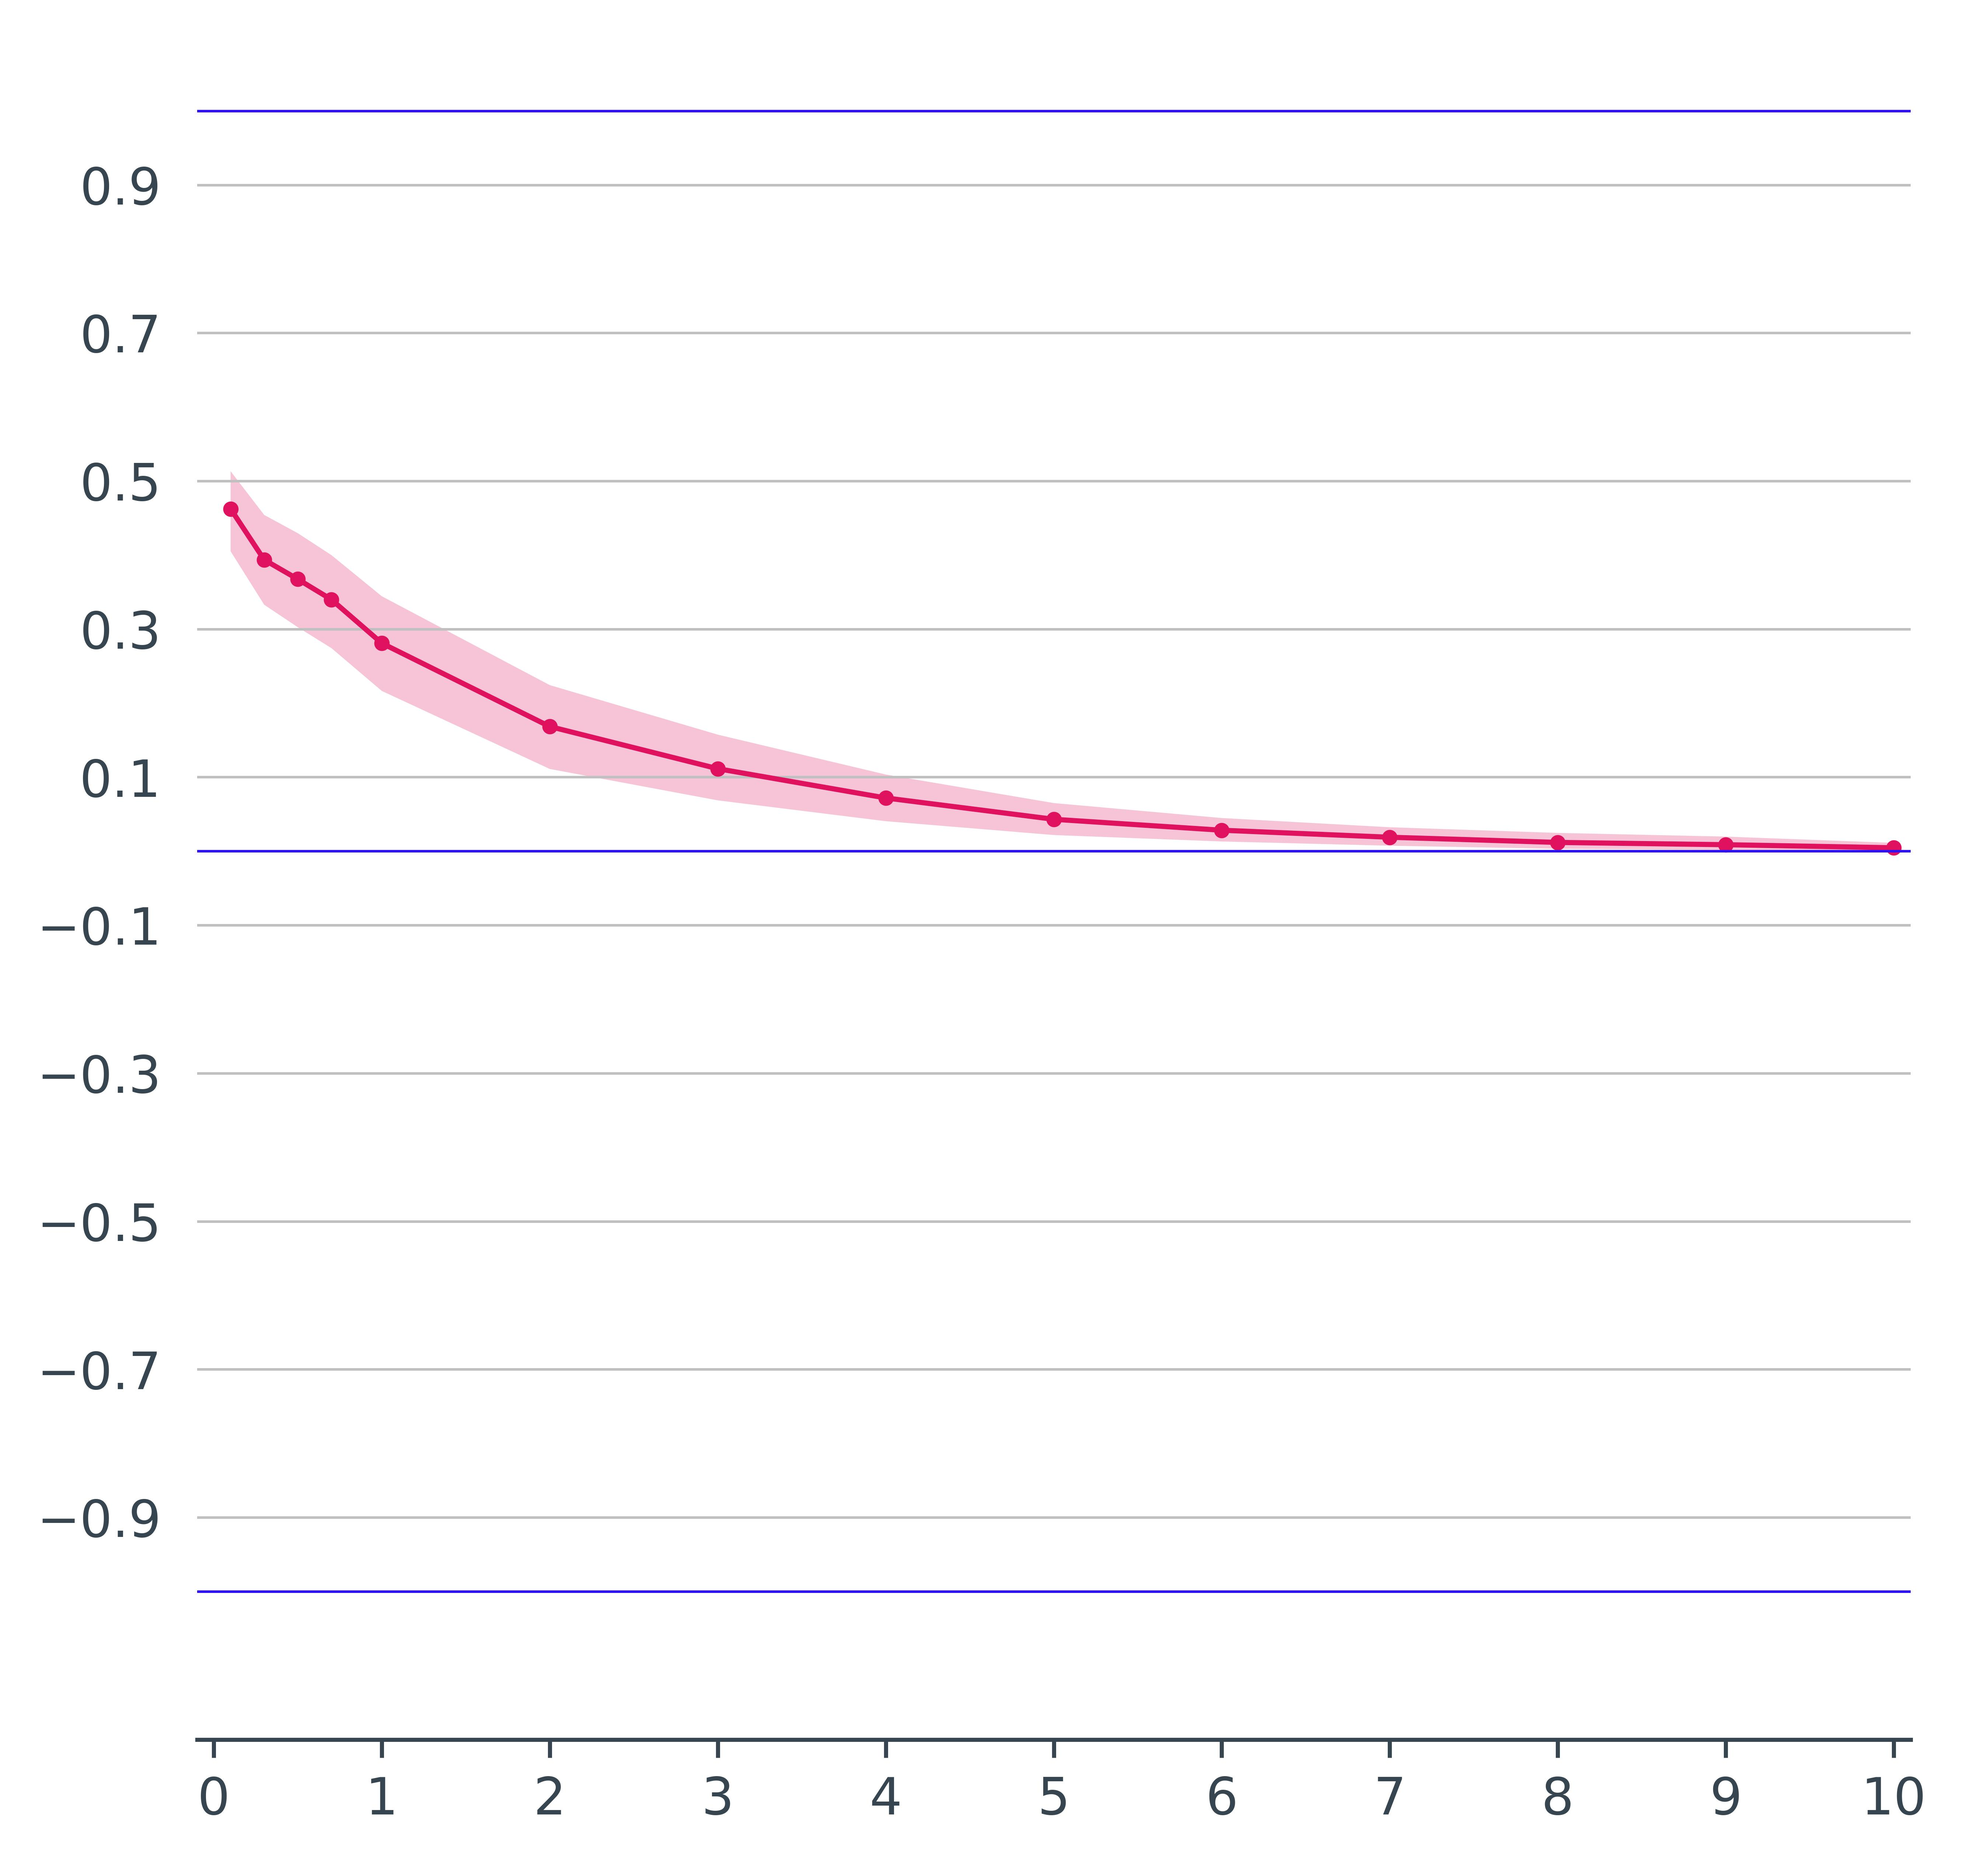
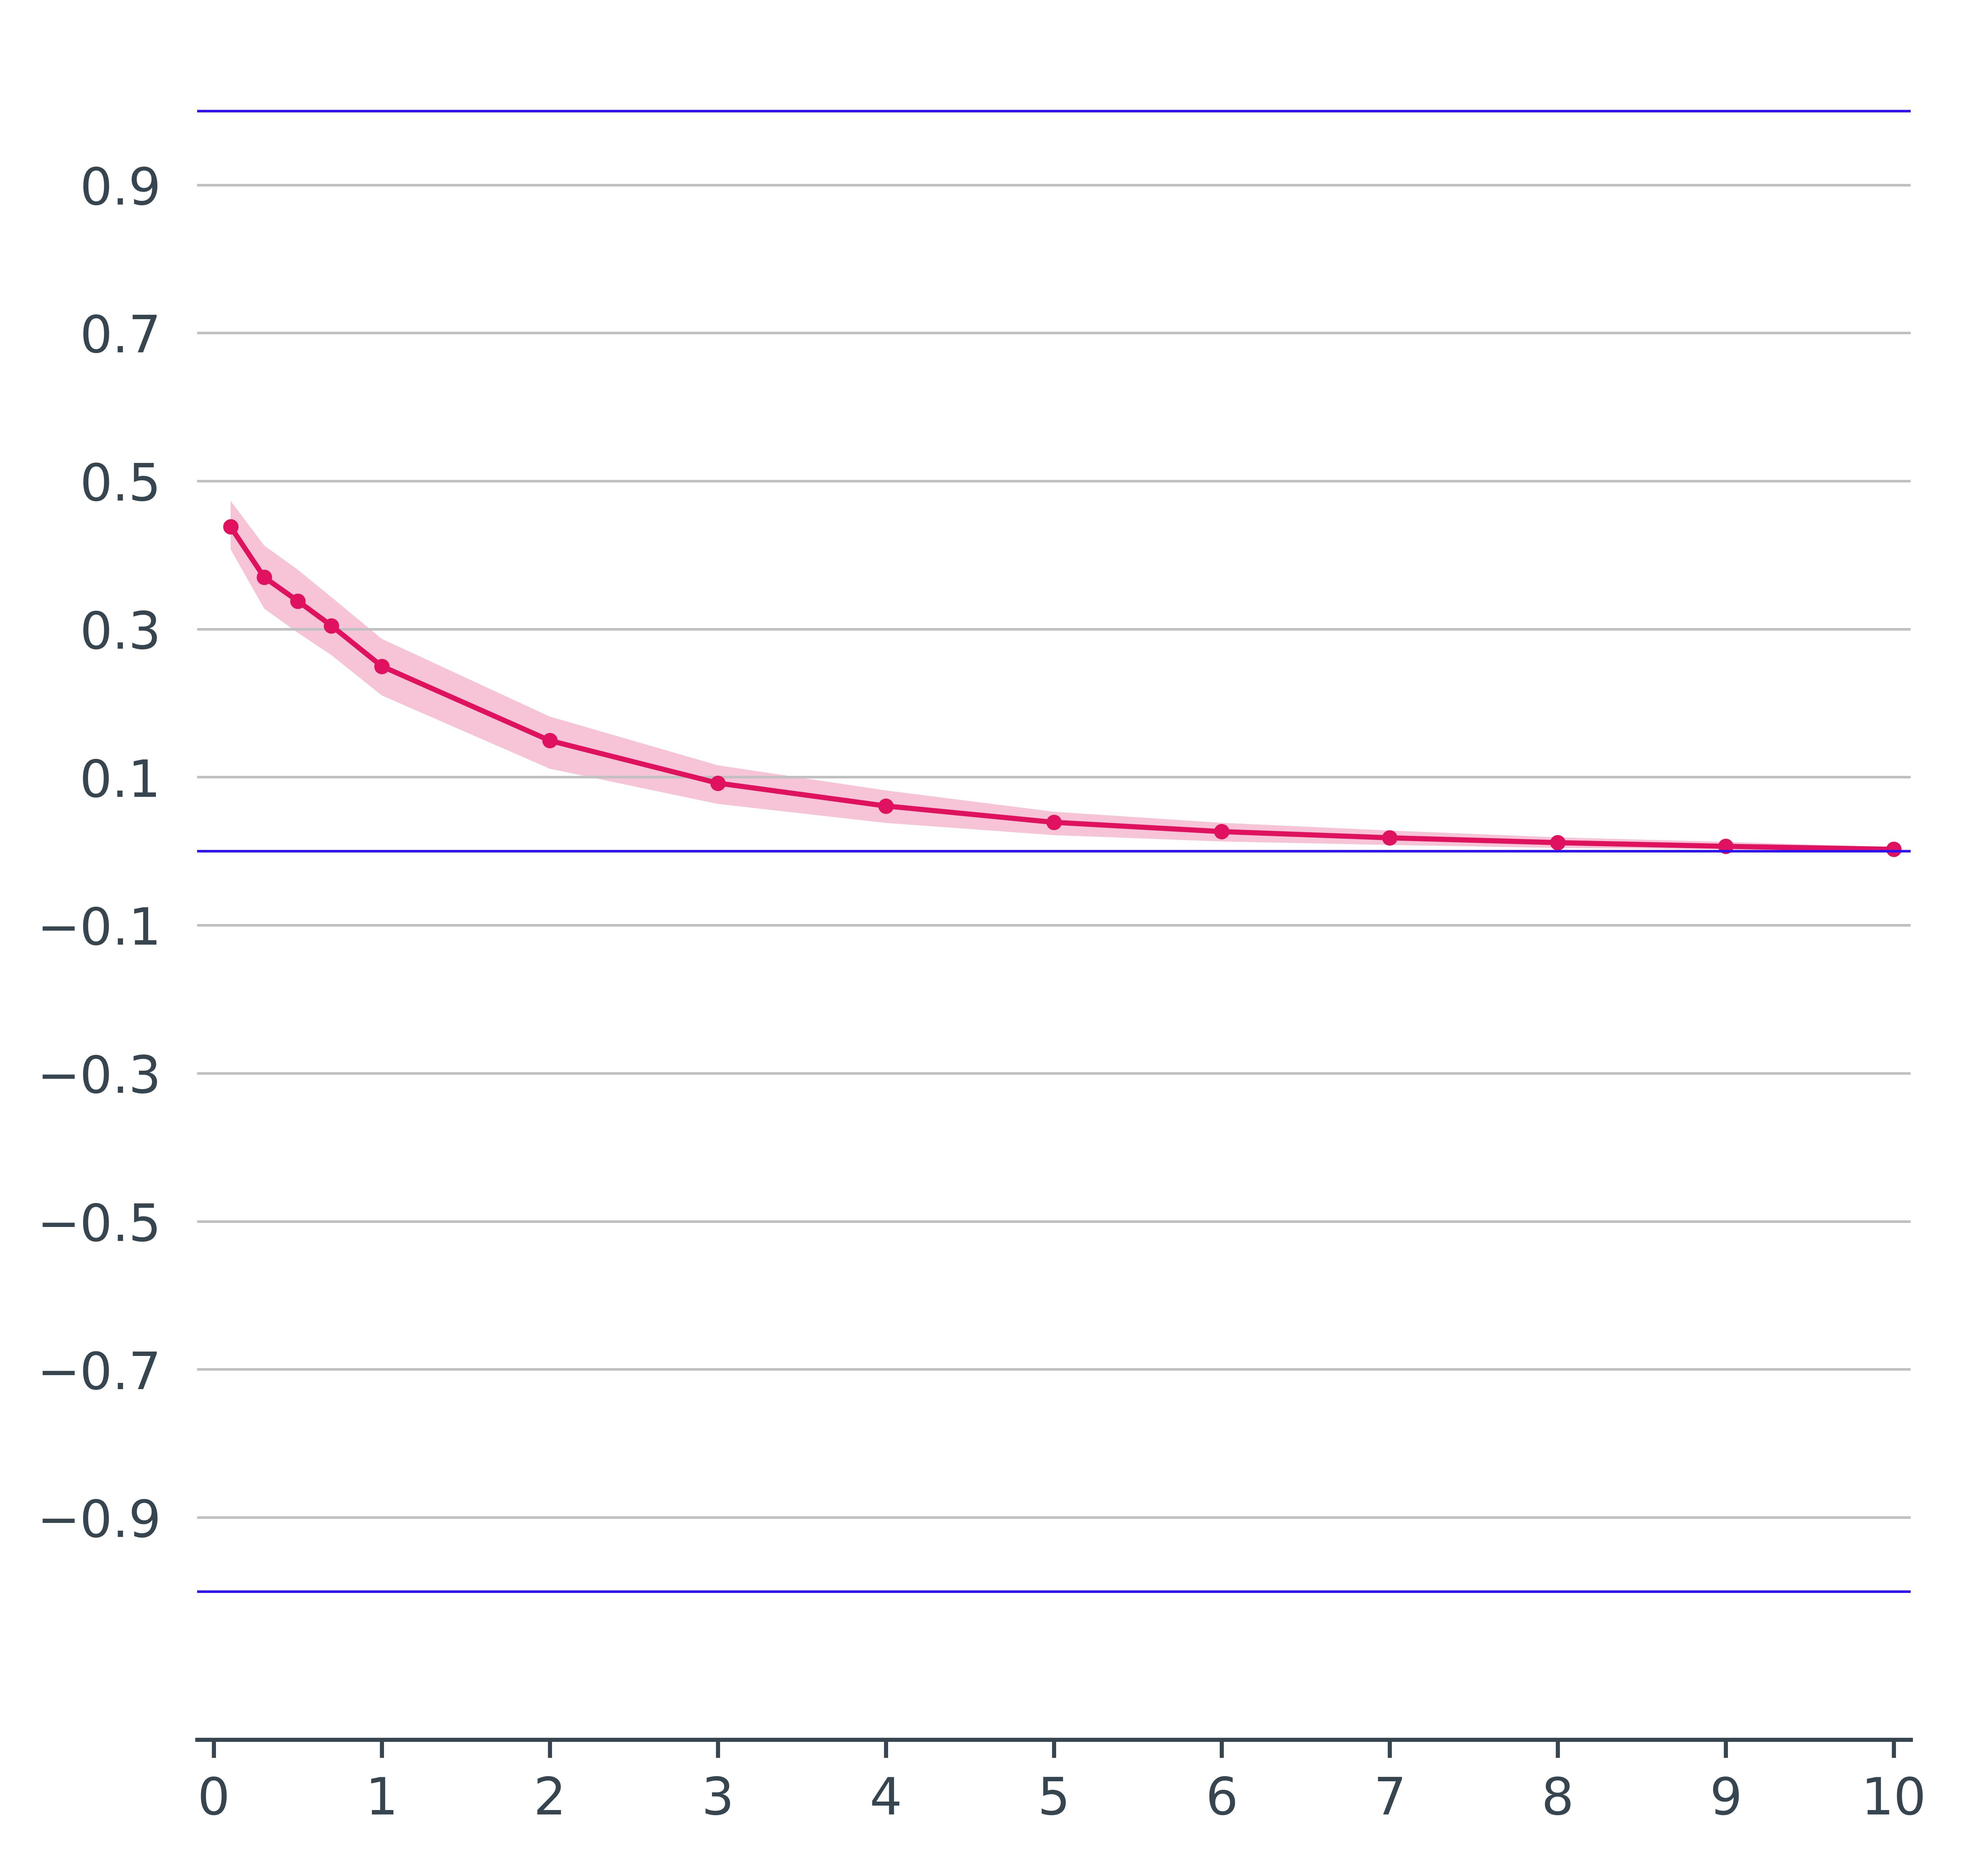
Added new verification scores.

Changed region(s): [[0.0935, 0.2486, 0.9349, 0.4662]]

diff --git a/Scripts/Processed/36_Plot_Verif_Scores.py b/Scripts/Processed/36_Plot_Verif_Scores.py
@@ -31,7 +31,7 @@ TheDateTime_Start_S = datetime(2021, 1, 1, 0)
 TheDateTime_Start_F = datetime(2023, 12, 31, 12)
 Acc = 12
 Disc_Acc = 12
-Num_BS = 1000
+Num_BS = 100
 CL = 99
 Thr_list = [0.1, 0.3, 0.5, 0.7, 1, 2, 3, 4, 5, 6, 7, 8, 9, 10]
 Git_Repo = "/ec/vol/ecpoint_dev/mofp/Papers_2_Write/Use_FlashFloodsRep_4Verif_USA"
@@ -150,13 +150,26 @@ print(cn_bs / Tot_NumGB_Verif_Per * 100)
 # Computing the verification scores
 print()
 print("Computing the verification scores")
-total_bs = h_bs + m_bs + fa_bs + cn_bs
-h_chance_bs = (h_bs + fa_bs) * (h_bs + m_bs) / total_bs
-hr_bs = h_bs / (h_bs + m_bs) 
-far_bs = fa_bs / (fa_bs + cn_bs)
-fb_bs =  (h_bs + fa_bs) / (h_bs + m_bs)
-pss_bs = (h_bs / (h_bs + m_bs)) - (fa_bs / (fa_bs + cn_bs))
+
+fb_bs =  (h_bs + fa_bs) / (h_bs + m_bs) # frequency bias
+
+csi_bs = h_bs / (h_bs + m_bs + fa_bs) # critical success index
+
+h_chance_bs = (h_bs + m_bs) * (h_bs + fa_bs) / (h_bs + m_bs + fa_bs + cn_bs) # equitable threat score
 ets_bs = (h_bs - h_chance_bs) / (h_bs + m_bs + fa_bs - h_chance_bs)
+
+pss_bs = (h_bs / (h_bs + m_bs)) - (fa_bs / (fa_bs + cn_bs)) # Pierce's skill score
+
+correct_rnd = ( ( (h_bs + m_bs) * (h_bs + fa_bs) ) + ( (cn_bs + m_bs) * (cn_bs + fa_bs) ) ) / (h_bs + m_bs + fa_bs + cn_bs) # Heidke skill score
+hss_bs = (h_bs + cn_bs - correct_rnd) / (h_bs + m_bs + fa_bs + cn_bs - correct_rnd)
+
+or_bs = (h_bs * cn_bs) / (m_bs * fa_bs) # odd's ratio
+
+q_bs  = ( (h_bs * cn_bs) - (m_bs * fa_bs) ) / ( (h_bs * cn_bs) + (m_bs * fa_bs) ) # Yules' Q
+
+hr_bs = h_bs / (h_bs + m_bs)  # hit rate for ROC
+far_bs = fa_bs / (fa_bs + cn_bs) # false alarm rate for ROC
+
 
 # Plotting and saving the verification scores
 print()
@@ -260,12 +273,12 @@ plt.savefig(FileOUT, format="jpeg", bbox_inches="tight", dpi=1000)
 plt.close()
 
 
-#################
-# Peirce's skill score #
-#################
+####################
+# Critical Success Index #
+####################
 
-var = pss_bs
-VarName = "pss"
+var = csi_bs
+VarName = "csi"
 
 lower_error = np.percentile(var[:,1:], (100-CL)/2, axis = 1)
 upper_error = np.percentile(var[:,1:], (100 - (100-CL)/2), axis = 1)
@@ -286,11 +299,8 @@ ax.tick_params(axis="y", colors="#36454F")
 plt.xlim([-0.1, np.max(Thr_list) + 0.1])
 ax.set_xticks(np.arange(0, np.max(Thr_list) + 1))
 
-plt.ylim([-1.2,1.1])
-ax.set_yticks(np.arange(-0.9, 1, 0.2))
-plt.plot([-0.1,np.max(Thr_list) + 0.1], [1,1], "-", color="#2F11F5", linewidth=0.5)
+ax.set_ylim(bottom=-1)
 plt.plot([-0.1,np.max(Thr_list) + 0.1], [0,0], "-", color="#2F11F5", linewidth=0.5)
-plt.plot([-0.1,np.max(Thr_list) + 0.1], [-1,-1], "-", color="#2F11F5", linewidth=0.5)
 
 plt.grid(axis="y", color="silver", linewidth=0.5)
 
@@ -330,6 +340,160 @@ ax.set_yticks(np.arange(-0.3, 1.1, 0.2))
 plt.plot([-0.1,np.max(Thr_list) + 0.1], [1,1], "-", color="#2F11F5", linewidth=0.5)
 plt.plot([-0.1,np.max(Thr_list) + 0.1], [0,0], "-", color="#2F11F5", linewidth=0.5)
 plt.plot([-0.1,np.max(Thr_list) + 0.1], [-1/3,-1/3], "-", color="#2F11F5", linewidth=0.5)
+
+plt.grid(axis="y", color="silver", linewidth=0.5)
+
+FileOUT = MainDirOUT + "/" + VarName + ".jpeg"
+plt.savefig(FileOUT, format="jpeg", bbox_inches="tight", dpi=1000)
+plt.close()
+
+
+#################
+# Peirce's skill score #
+#################
+
+var = pss_bs
+VarName = "pss"
+
+lower_error = np.percentile(var[:,1:], (100-CL)/2, axis = 1)
+upper_error = np.percentile(var[:,1:], (100 - (100-CL)/2), axis = 1)
+
+plt.figure(figsize=(6,6))
+plt.plot(Thr_list, var[:,0], "o-", color="#E0115F", linewidth=1, markersize=2)
+plt.fill_between(Thr_list, lower_error, upper_error, color="#E0115F", alpha=0.25, edgecolor="none")
+
+ax = plt.gca()
+ax.spines["top"].set_visible(False)
+ax.spines["bottom"].set_color("#36454F")
+ax.spines["left"].set_visible(False)
+ax.spines["right"].set_visible(False)
+plt.tick_params(left=False, right=False, top=False)
+ax.tick_params(axis="x", colors="#36454F")
+ax.tick_params(axis="y", colors="#36454F")
+
+plt.xlim([-0.1, np.max(Thr_list) + 0.1])
+ax.set_xticks(np.arange(0, np.max(Thr_list) + 1))
+
+plt.ylim([-1.2,1.1])
+ax.set_yticks(np.arange(-0.9, 1, 0.2))
+plt.plot([-0.1,np.max(Thr_list) + 0.1], [1,1], "-", color="#2F11F5", linewidth=0.5)
+plt.plot([-0.1,np.max(Thr_list) + 0.1], [0,0], "-", color="#2F11F5", linewidth=0.5)
+plt.plot([-0.1,np.max(Thr_list) + 0.1], [-1,-1], "-", color="#2F11F5", linewidth=0.5)
+
+plt.grid(axis="y", color="silver", linewidth=0.5)
+
+FileOUT = MainDirOUT + "/" + VarName + ".jpeg"
+plt.savefig(FileOUT, format="jpeg", bbox_inches="tight", dpi=1000)
+plt.close()
+
+
+#################
+# Heidke skill score #
+#################
+
+var = hss_bs
+VarName = "hss"
+
+lower_error = np.percentile(var[:,1:], (100-CL)/2, axis = 1)
+upper_error = np.percentile(var[:,1:], (100 - (100-CL)/2), axis = 1)
+
+plt.figure(figsize=(6,6))
+plt.plot(Thr_list, var[:,0], "o-", color="#E0115F", linewidth=1, markersize=2)
+plt.fill_between(Thr_list, lower_error, upper_error, color="#E0115F", alpha=0.25, edgecolor="none")
+
+ax = plt.gca()
+ax.spines["top"].set_visible(False)
+ax.spines["bottom"].set_color("#36454F")
+ax.spines["left"].set_visible(False)
+ax.spines["right"].set_visible(False)
+plt.tick_params(left=False, right=False, top=False)
+ax.tick_params(axis="x", colors="#36454F")
+ax.tick_params(axis="y", colors="#36454F")
+
+plt.xlim([-0.1, np.max(Thr_list) + 0.1])
+ax.set_xticks(np.arange(0, np.max(Thr_list) + 1))
+
+plt.ylim([-1.2,1.1])
+ax.set_yticks(np.arange(-0.9, 1, 0.2))
+plt.plot([-0.1,np.max(Thr_list) + 0.1], [1,1], "-", color="#2F11F5", linewidth=0.5)
+plt.plot([-0.1,np.max(Thr_list) + 0.1], [0,0], "-", color="#2F11F5", linewidth=0.5)
+plt.plot([-0.1,np.max(Thr_list) + 0.1], [-1,-1], "-", color="#2F11F5", linewidth=0.5)
+
+plt.grid(axis="y", color="silver", linewidth=0.5)
+
+FileOUT = MainDirOUT + "/" + VarName + ".jpeg"
+plt.savefig(FileOUT, format="jpeg", bbox_inches="tight", dpi=1000)
+plt.close()
+
+
+############
+# Odd's ratio #
+############
+
+var = or_bs
+VarName = "or"
+
+lower_error = np.percentile(var[:,1:], (100-CL)/2, axis = 1)
+upper_error = np.percentile(var[:,1:], (100 - (100-CL)/2), axis = 1)
+
+plt.figure(figsize=(6,6))
+plt.plot(Thr_list, var[:,0], "o-", color="#E0115F", linewidth=1, markersize=2)
+plt.fill_between(Thr_list, lower_error, upper_error, color="#E0115F", alpha=0.25, edgecolor="none")
+
+ax = plt.gca()
+ax.spines["top"].set_visible(False)
+ax.spines["bottom"].set_color("#36454F")
+ax.spines["left"].set_visible(False)
+ax.spines["right"].set_visible(False)
+plt.tick_params(left=False, right=False, top=False)
+ax.tick_params(axis="x", colors="#36454F")
+ax.tick_params(axis="y", colors="#36454F")
+
+plt.xlim([-0.1, np.max(Thr_list) + 0.1])
+ax.set_xticks(np.arange(0, np.max(Thr_list) + 1))
+
+ax.set_ylim(bottom=-20)
+plt.plot([-0.1,np.max(Thr_list) + 0.1], [1,1], "-", color="#2F11F5", linewidth=0.5)
+plt.plot([-0.1,np.max(Thr_list) + 0.1], [0,0], "-", color="#2F11F5", linewidth=0.5)
+
+plt.grid(axis="y", color="silver", linewidth=0.5)
+
+FileOUT = MainDirOUT + "/" + VarName + ".jpeg"
+plt.savefig(FileOUT, format="jpeg", bbox_inches="tight", dpi=1000)
+plt.close()
+
+
+#########
+# Yule's Q #
+#########
+
+var = q_bs
+VarName = "q"
+
+lower_error = np.percentile(var[:,1:], (100-CL)/2, axis = 1)
+upper_error = np.percentile(var[:,1:], (100 - (100-CL)/2), axis = 1)
+
+plt.figure(figsize=(6,6))
+plt.plot(Thr_list, var[:,0], "o-", color="#E0115F", linewidth=1, markersize=2)
+plt.fill_between(Thr_list, lower_error, upper_error, color="#E0115F", alpha=0.25, edgecolor="none")
+
+ax = plt.gca()
+ax.spines["top"].set_visible(False)
+ax.spines["bottom"].set_color("#36454F")
+ax.spines["left"].set_visible(False)
+ax.spines["right"].set_visible(False)
+plt.tick_params(left=False, right=False, top=False)
+ax.tick_params(axis="x", colors="#36454F")
+ax.tick_params(axis="y", colors="#36454F")
+
+plt.xlim([-0.1, np.max(Thr_list) + 0.1])
+ax.set_xticks(np.arange(0, np.max(Thr_list) + 1))
+
+plt.ylim([-1.2,1.1])
+ax.set_yticks(np.arange(-0.9, 1, 0.2))
+plt.plot([-0.1,np.max(Thr_list) + 0.1], [1,1], "-", color="#2F11F5", linewidth=0.5)
+plt.plot([-0.1,np.max(Thr_list) + 0.1], [0,0], "-", color="#2F11F5", linewidth=0.5)
+plt.plot([-0.1,np.max(Thr_list) + 0.1], [-1,-1], "-", color="#2F11F5", linewidth=0.5)
 
 plt.grid(axis="y", color="silver", linewidth=0.5)
 
